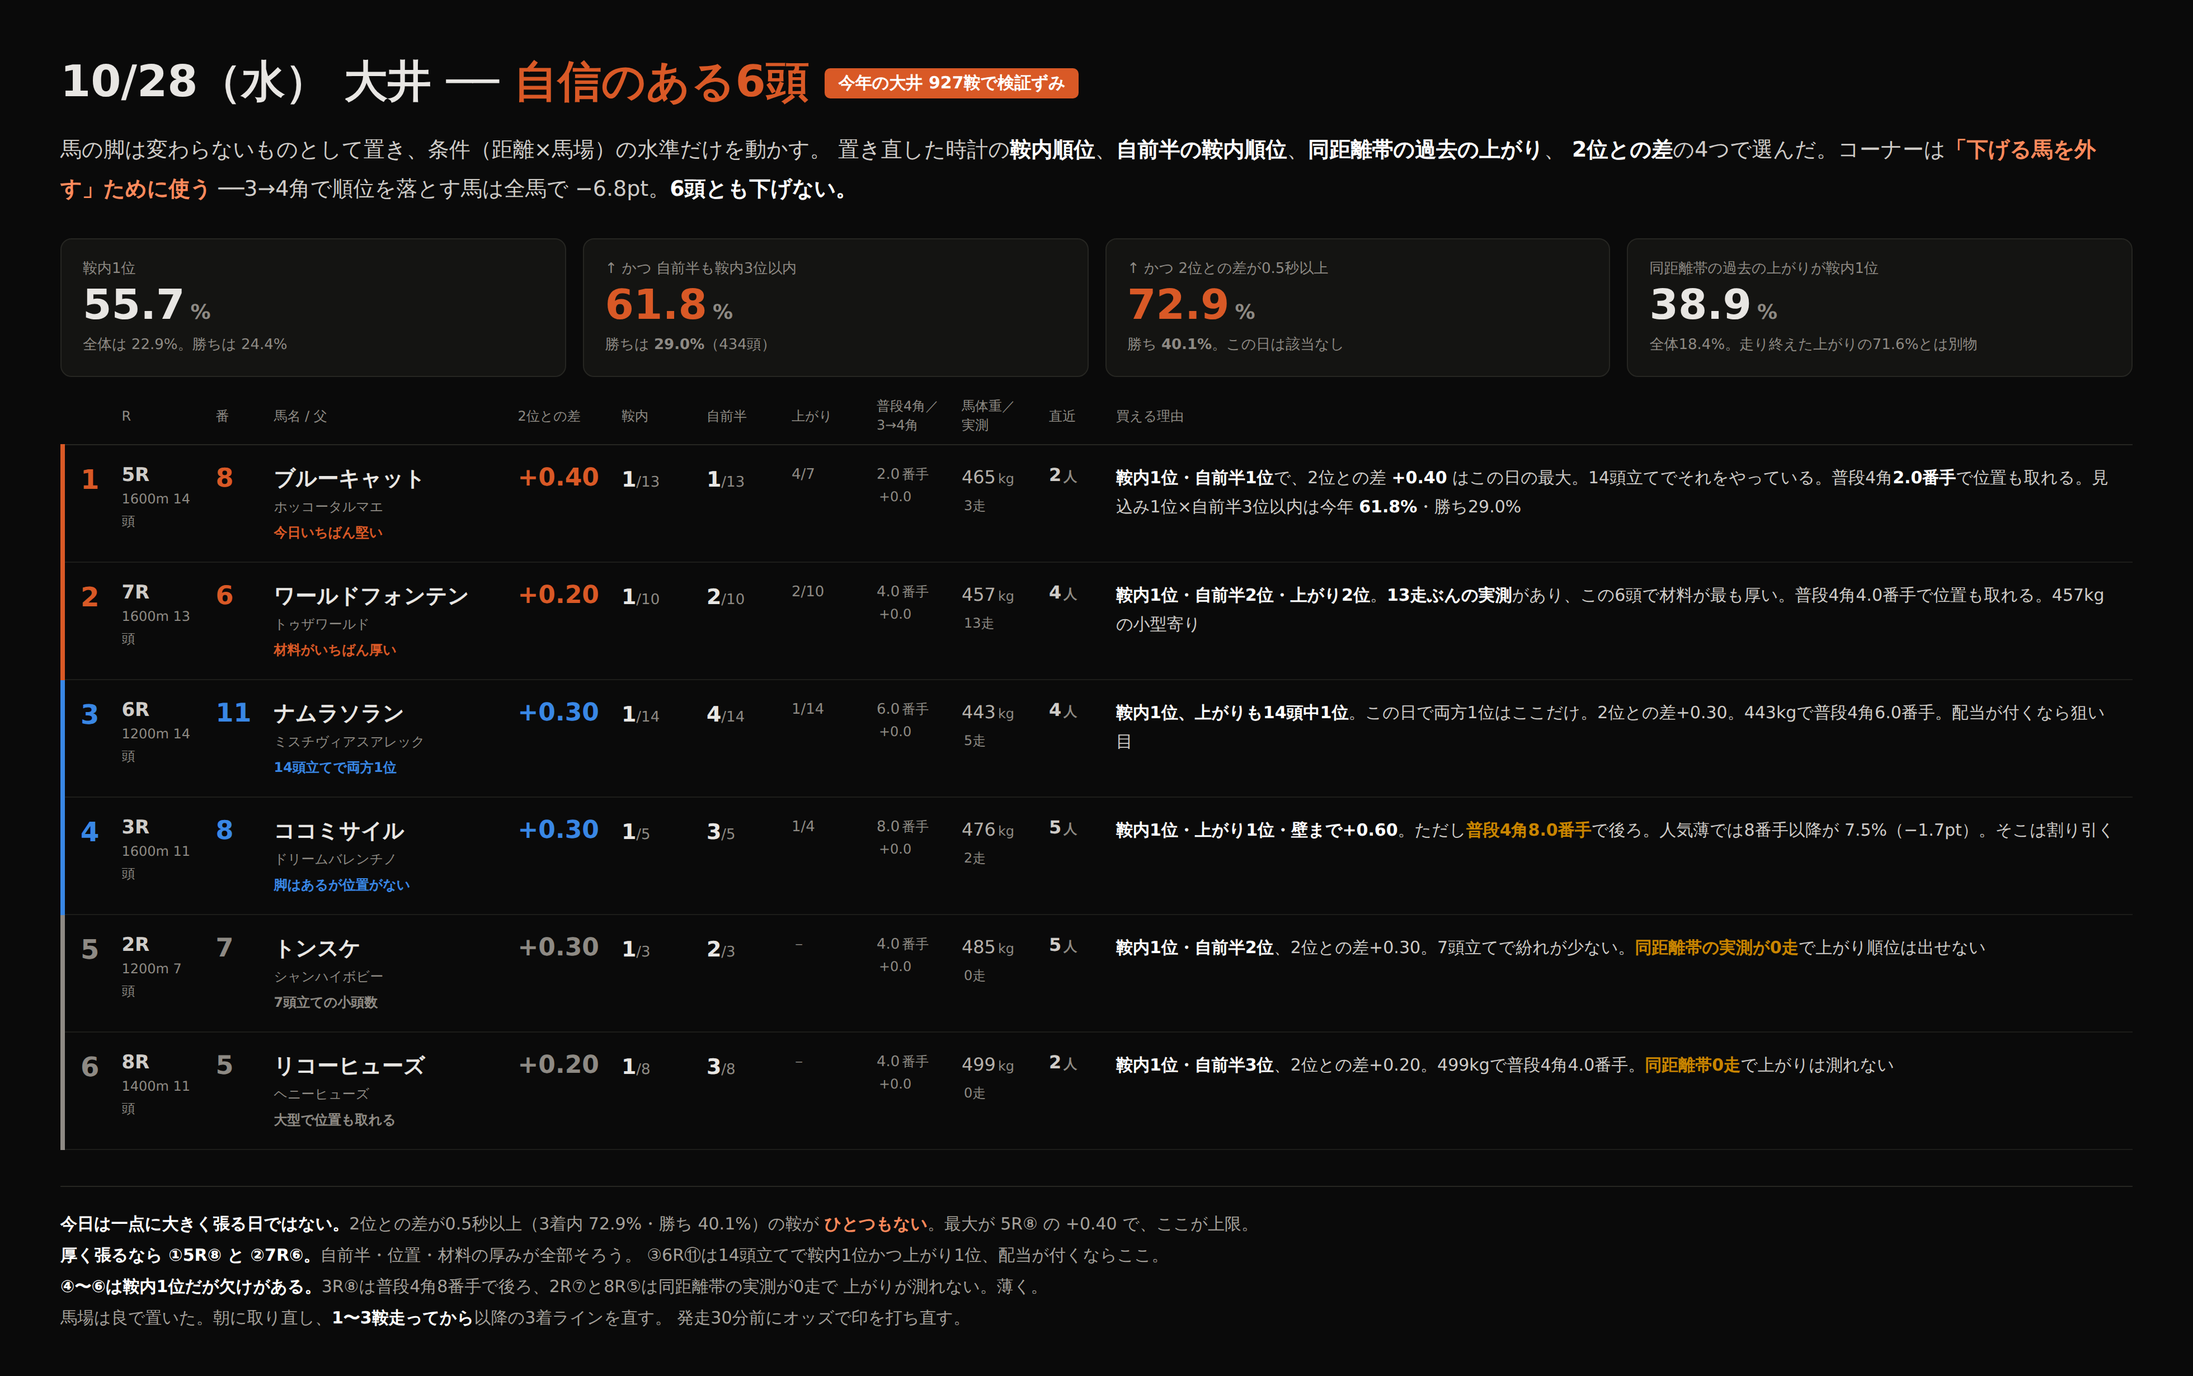
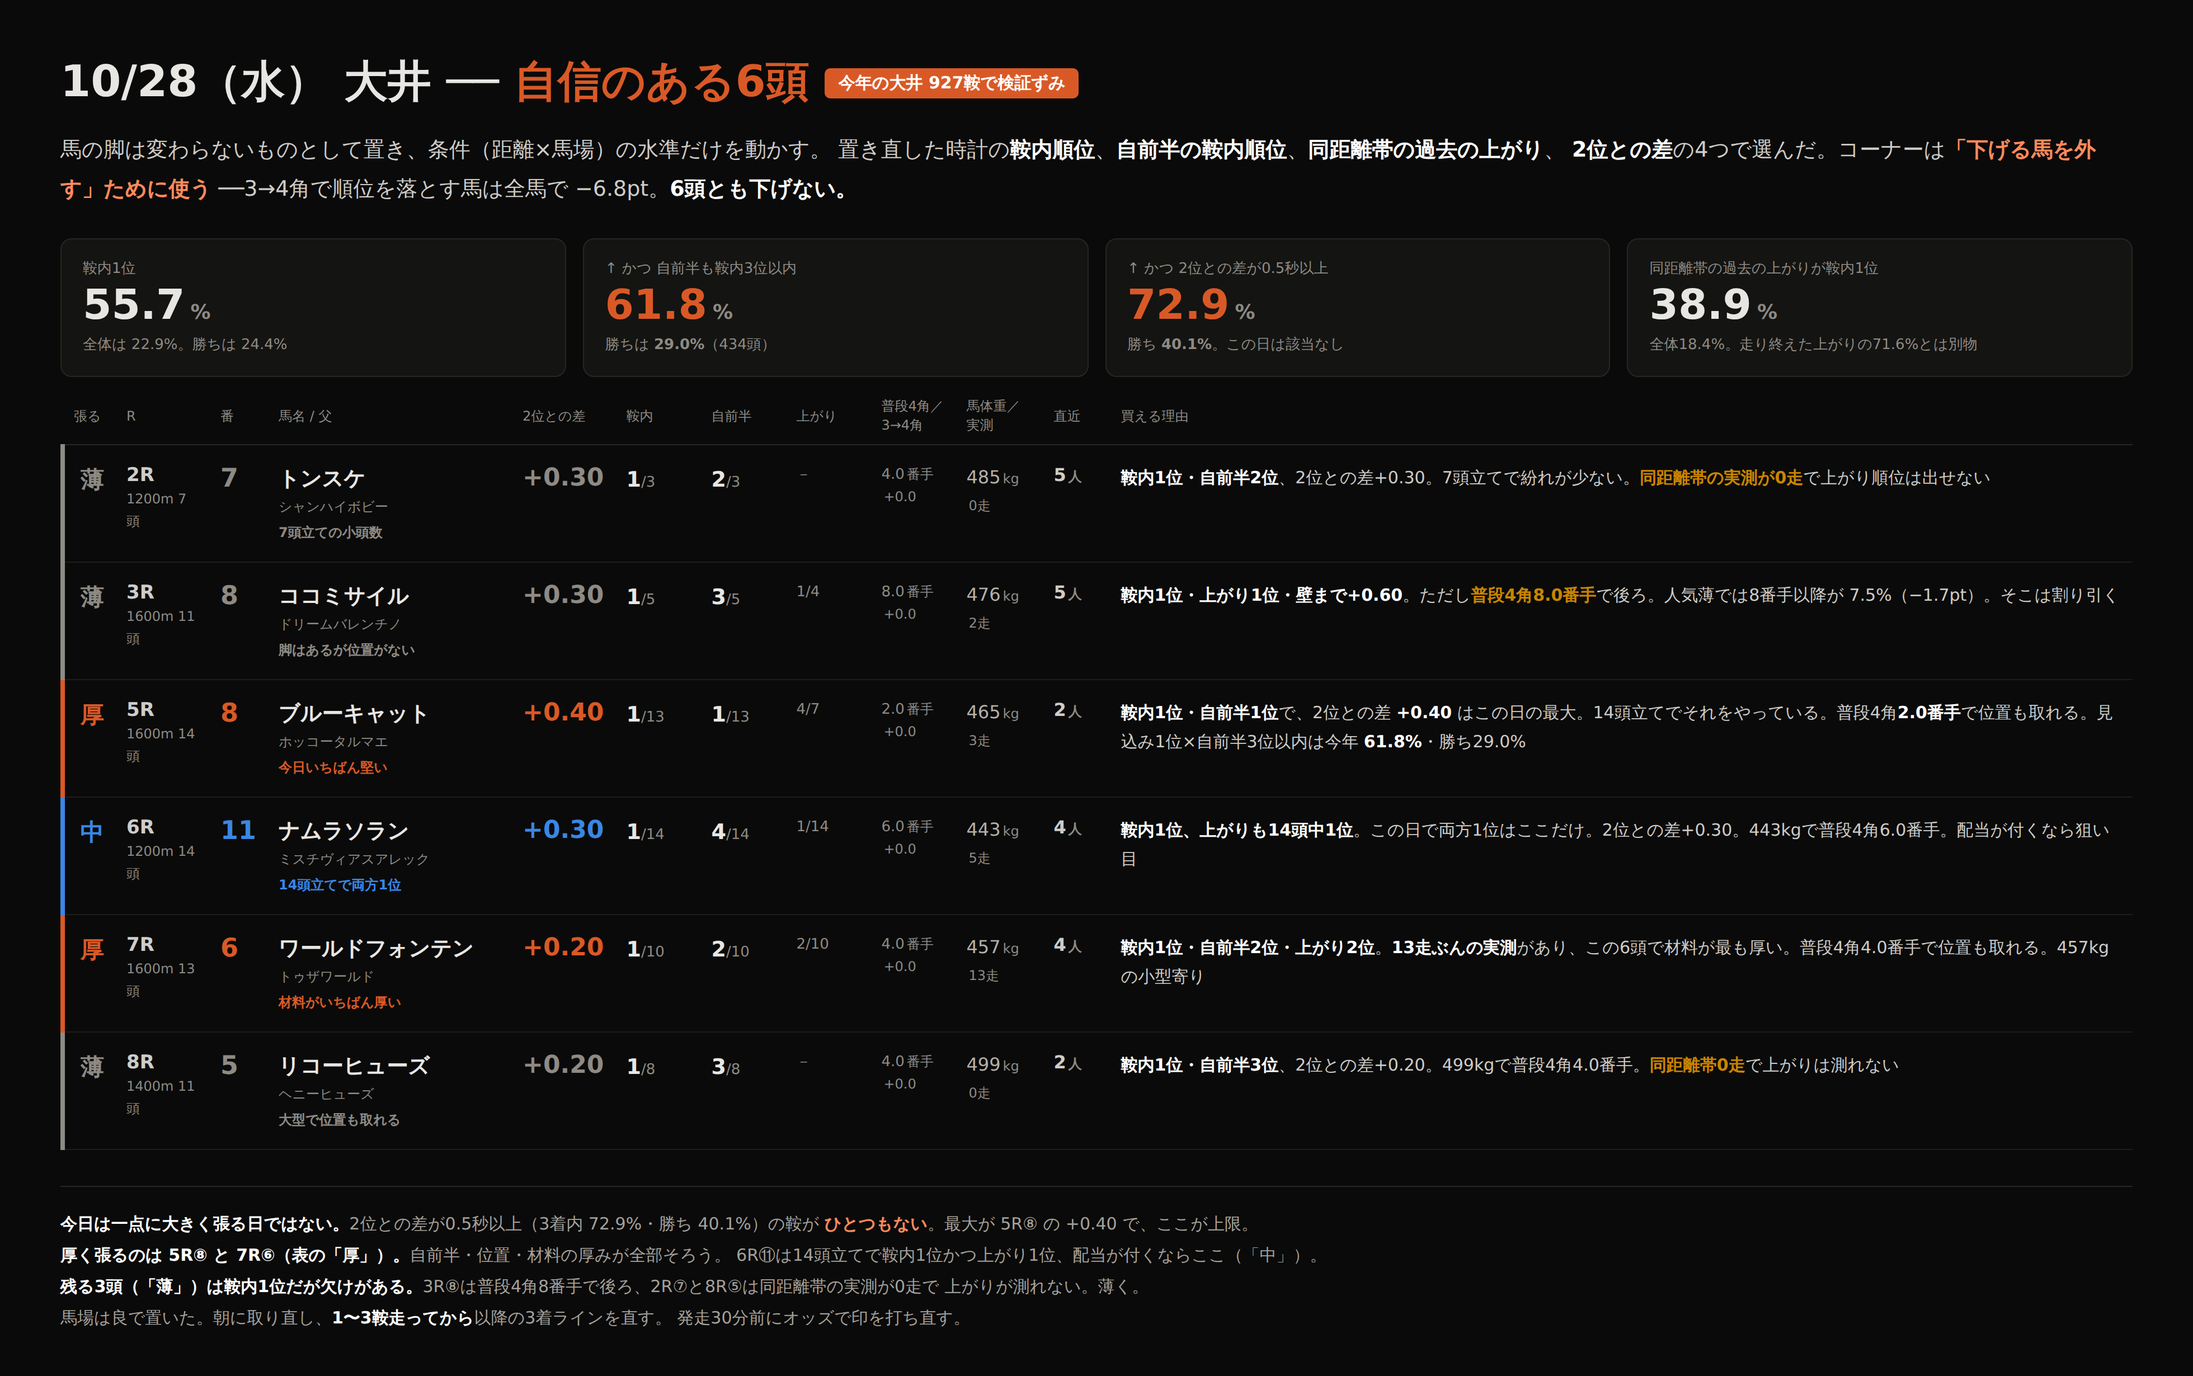
大井 10/28 自信の6頭：レース番号順に並べる
順位の番号をやめ、左端は「厚／中／薄」の張る厚さに変えた。
表はレース番号順。

Claude-Session: https://claude.ai/code/session_01RoHscZkr96FNaxQWvUqgEw

diff --git a/notes/live/2026-10-28/top6.html b/notes/live/2026-10-28/top6.html
@@ -18,7 +18,7 @@ table{width:100%;border-collapse:collapse;margin-top:18px}
 th{font-size:12px;color:#8e8a84;font-weight:500;text-align:left;padding:0 10px 8px;
  border-bottom:1px solid #262622}
 td{padding:17px 10px;border-bottom:1px solid #1d1d1a;font-size:16px;vertical-align:top}
-.no{width:40px;font-size:24px;font-weight:800;color:var(--c);
+.no{width:44px;font-size:21px;font-weight:800;color:var(--c);
  border-left:4px solid var(--c);padding-left:14px}
 .r{width:84px;color:#cfccc8;font-weight:700;font-size:17px}
 .dm{font-size:12px;color:#8e8a84;font-weight:500}
@@ -58,16 +58,16 @@ footer b{color:#fff} footer .hl{color:#ff8a5c;font-weight:700}
   <div class=v>38.9<small>%</small></div>
   <div class=n>全体18.4%。走り終えた上がりの71.6%とは別物</div></div>
 </div>
-<table><thead><tr><th></th><th>R</th><th>番</th><th>馬名 / 父</th>
+<table><thead><tr><th>張る</th><th>R</th><th>番</th><th>馬名 / 父</th>
 <th>2位との差</th><th>鞍内</th><th>自前半</th><th>上がり</th><th>普段4角／3→4角</th>
 <th>馬体重／実測</th><th>直近</th><th>買える理由</th></tr></thead>
-<tbody><tr style="--c:#d95926"><td class=no>1</td><td class=r>5R<br><span class=dm>1600m 14頭</span></td><td class=u>8</td><td class=nm>ブルーキャット<span class=si>ホッコータルマエ</span><span class=hd>今日いちばん堅い</span></td><td class=big>+0.40</td><td class=rk><b>1</b>/13</td><td class=rk><b>1</b>/13</td><td class=rk>4/7</td><td class=rk>2.0<span class=un>番手</span><br><span class=un>+0.0</span></td><td class=sm>465<span class=un>kg</span><br><span class=un>3走</span></td><td class=pp>2<span class=un>人</span></td><td class=why><b>鞍内1位・自前半1位</b>で、2位との差 <b>+0.40</b> はこの日の最大。14頭立てでそれをやっている。普段4角<b>2.0番手</b>で位置も取れる。見込み1位×自前半3位以内は今年 <b>61.8%</b>・勝ち29.0%</td></tr><tr style="--c:#d95926"><td class=no>2</td><td class=r>7R<br><span class=dm>1600m 13頭</span></td><td class=u>6</td><td class=nm>ワールドフォンテン<span class=si>トゥザワールド</span><span class=hd>材料がいちばん厚い</span></td><td class=big>+0.20</td><td class=rk><b>1</b>/10</td><td class=rk><b>2</b>/10</td><td class=rk>2/10</td><td class=rk>4.0<span class=un>番手</span><br><span class=un>+0.0</span></td><td class=sm>457<span class=un>kg</span><br><span class=un>13走</span></td><td class=pp>4<span class=un>人</span></td><td class=why><b>鞍内1位・自前半2位・上がり2位</b>。<b>13走ぶんの実測</b>があり、この6頭で材料が最も厚い。普段4角4.0番手で位置も取れる。457kgの小型寄り</td></tr><tr style="--c:#3987e5"><td class=no>3</td><td class=r>6R<br><span class=dm>1200m 14頭</span></td><td class=u>11</td><td class=nm>ナムラソラン<span class=si>ミスチヴィアスアレック</span><span class=hd>14頭立てで両方1位</span></td><td class=big>+0.30</td><td class=rk><b>1</b>/14</td><td class=rk><b>4</b>/14</td><td class=rk>1/14</td><td class=rk>6.0<span class=un>番手</span><br><span class=un>+0.0</span></td><td class=sm>443<span class=un>kg</span><br><span class=un>5走</span></td><td class=pp>4<span class=un>人</span></td><td class=why><b>鞍内1位、上がりも14頭中1位</b>。この日で両方1位はここだけ。2位との差+0.30。443kgで普段4角6.0番手。配当が付くなら狙い目</td></tr><tr style="--c:#3987e5"><td class=no>4</td><td class=r>3R<br><span class=dm>1600m 11頭</span></td><td class=u>8</td><td class=nm>ココミサイル<span class=si>ドリームバレンチノ</span><span class=hd>脚はあるが位置がない</span></td><td class=big>+0.30</td><td class=rk><b>1</b>/5</td><td class=rk><b>3</b>/5</td><td class=rk>1/4</td><td class=rk>8.0<span class=un>番手</span><br><span class=un>+0.0</span></td><td class=sm>476<span class=un>kg</span><br><span class=un>2走</span></td><td class=pp>5<span class=un>人</span></td><td class=why><b>鞍内1位・上がり1位・壁まで+0.60</b>。ただし<span class=w>普段4角8.0番手</span>で後ろ。人気薄では8番手以降が 7.5%（−1.7pt）。そこは割り引く</td></tr><tr style="--c:#8e8a84"><td class=no>5</td><td class=r>2R<br><span class=dm>1200m 7頭</span></td><td class=u>7</td><td class=nm>トンスケ<span class=si>シャンハイボビー</span><span class=hd>7頭立ての小頭数</span></td><td class=big>+0.30</td><td class=rk><b>1</b>/3</td><td class=rk><b>2</b>/3</td><td class=rk>－</td><td class=rk>4.0<span class=un>番手</span><br><span class=un>+0.0</span></td><td class=sm>485<span class=un>kg</span><br><span class=un>0走</span></td><td class=pp>5<span class=un>人</span></td><td class=why><b>鞍内1位・自前半2位</b>、2位との差+0.30。7頭立てで紛れが少ない。<span class=w>同距離帯の実測が0走</span>で上がり順位は出せない</td></tr><tr style="--c:#8e8a84"><td class=no>6</td><td class=r>8R<br><span class=dm>1400m 11頭</span></td><td class=u>5</td><td class=nm>リコーヒューズ<span class=si>ヘニーヒューズ</span><span class=hd>大型で位置も取れる</span></td><td class=big>+0.20</td><td class=rk><b>1</b>/8</td><td class=rk><b>3</b>/8</td><td class=rk>－</td><td class=rk>4.0<span class=un>番手</span><br><span class=un>+0.0</span></td><td class=sm>499<span class=un>kg</span><br><span class=un>0走</span></td><td class=pp>2<span class=un>人</span></td><td class=why><b>鞍内1位・自前半3位</b>、2位との差+0.20。499kgで普段4角4.0番手。<span class=w>同距離帯0走</span>で上がりは測れない</td></tr></tbody></table>
+<tbody><tr style="--c:#8e8a84"><td class=no>薄</td><td class=r>2R<br><span class=dm>1200m 7頭</span></td><td class=u>7</td><td class=nm>トンスケ<span class=si>シャンハイボビー</span><span class=hd>7頭立ての小頭数</span></td><td class=big>+0.30</td><td class=rk><b>1</b>/3</td><td class=rk><b>2</b>/3</td><td class=rk>－</td><td class=rk>4.0<span class=un>番手</span><br><span class=un>+0.0</span></td><td class=sm>485<span class=un>kg</span><br><span class=un>0走</span></td><td class=pp>5<span class=un>人</span></td><td class=why><b>鞍内1位・自前半2位</b>、2位との差+0.30。7頭立てで紛れが少ない。<span class=w>同距離帯の実測が0走</span>で上がり順位は出せない</td></tr><tr style="--c:#8e8a84"><td class=no>薄</td><td class=r>3R<br><span class=dm>1600m 11頭</span></td><td class=u>8</td><td class=nm>ココミサイル<span class=si>ドリームバレンチノ</span><span class=hd>脚はあるが位置がない</span></td><td class=big>+0.30</td><td class=rk><b>1</b>/5</td><td class=rk><b>3</b>/5</td><td class=rk>1/4</td><td class=rk>8.0<span class=un>番手</span><br><span class=un>+0.0</span></td><td class=sm>476<span class=un>kg</span><br><span class=un>2走</span></td><td class=pp>5<span class=un>人</span></td><td class=why><b>鞍内1位・上がり1位・壁まで+0.60</b>。ただし<span class=w>普段4角8.0番手</span>で後ろ。人気薄では8番手以降が 7.5%（−1.7pt）。そこは割り引く</td></tr><tr style="--c:#d95926"><td class=no>厚</td><td class=r>5R<br><span class=dm>1600m 14頭</span></td><td class=u>8</td><td class=nm>ブルーキャット<span class=si>ホッコータルマエ</span><span class=hd>今日いちばん堅い</span></td><td class=big>+0.40</td><td class=rk><b>1</b>/13</td><td class=rk><b>1</b>/13</td><td class=rk>4/7</td><td class=rk>2.0<span class=un>番手</span><br><span class=un>+0.0</span></td><td class=sm>465<span class=un>kg</span><br><span class=un>3走</span></td><td class=pp>2<span class=un>人</span></td><td class=why><b>鞍内1位・自前半1位</b>で、2位との差 <b>+0.40</b> はこの日の最大。14頭立てでそれをやっている。普段4角<b>2.0番手</b>で位置も取れる。見込み1位×自前半3位以内は今年 <b>61.8%</b>・勝ち29.0%</td></tr><tr style="--c:#3987e5"><td class=no>中</td><td class=r>6R<br><span class=dm>1200m 14頭</span></td><td class=u>11</td><td class=nm>ナムラソラン<span class=si>ミスチヴィアスアレック</span><span class=hd>14頭立てで両方1位</span></td><td class=big>+0.30</td><td class=rk><b>1</b>/14</td><td class=rk><b>4</b>/14</td><td class=rk>1/14</td><td class=rk>6.0<span class=un>番手</span><br><span class=un>+0.0</span></td><td class=sm>443<span class=un>kg</span><br><span class=un>5走</span></td><td class=pp>4<span class=un>人</span></td><td class=why><b>鞍内1位、上がりも14頭中1位</b>。この日で両方1位はここだけ。2位との差+0.30。443kgで普段4角6.0番手。配当が付くなら狙い目</td></tr><tr style="--c:#d95926"><td class=no>厚</td><td class=r>7R<br><span class=dm>1600m 13頭</span></td><td class=u>6</td><td class=nm>ワールドフォンテン<span class=si>トゥザワールド</span><span class=hd>材料がいちばん厚い</span></td><td class=big>+0.20</td><td class=rk><b>1</b>/10</td><td class=rk><b>2</b>/10</td><td class=rk>2/10</td><td class=rk>4.0<span class=un>番手</span><br><span class=un>+0.0</span></td><td class=sm>457<span class=un>kg</span><br><span class=un>13走</span></td><td class=pp>4<span class=un>人</span></td><td class=why><b>鞍内1位・自前半2位・上がり2位</b>。<b>13走ぶんの実測</b>があり、この6頭で材料が最も厚い。普段4角4.0番手で位置も取れる。457kgの小型寄り</td></tr><tr style="--c:#8e8a84"><td class=no>薄</td><td class=r>8R<br><span class=dm>1400m 11頭</span></td><td class=u>5</td><td class=nm>リコーヒューズ<span class=si>ヘニーヒューズ</span><span class=hd>大型で位置も取れる</span></td><td class=big>+0.20</td><td class=rk><b>1</b>/8</td><td class=rk><b>3</b>/8</td><td class=rk>－</td><td class=rk>4.0<span class=un>番手</span><br><span class=un>+0.0</span></td><td class=sm>499<span class=un>kg</span><br><span class=un>0走</span></td><td class=pp>2<span class=un>人</span></td><td class=why><b>鞍内1位・自前半3位</b>、2位との差+0.20。499kgで普段4角4.0番手。<span class=w>同距離帯0走</span>で上がりは測れない</td></tr></tbody></table>
 <footer>
 <b>今日は一点に大きく張る日ではない。</b>2位との差が0.5秒以上（3着内 72.9%・勝ち 40.1%）の鞍が
 <span class=hl>ひとつもない</span>。最大が 5R⑧ の +0.40 で、ここが上限。<br>
-<b>厚く張るなら ①5R⑧ と ②7R⑥。</b>自前半・位置・材料の厚みが全部そろう。
-③6R⑪は14頭立てで鞍内1位かつ上がり1位、配当が付くならここ。<br>
-<b>④〜⑥は鞍内1位だが欠けがある。</b>3R⑧は普段4角8番手で後ろ、2R⑦と8R⑤は同距離帯の実測が0走で
+<b>厚く張るのは 5R⑧ と 7R⑥（表の「厚」）。</b>自前半・位置・材料の厚みが全部そろう。
+6R⑪は14頭立てで鞍内1位かつ上がり1位、配当が付くならここ（「中」）。<br>
+<b>残る3頭（「薄」）は鞍内1位だが欠けがある。</b>3R⑧は普段4角8番手で後ろ、2R⑦と8R⑤は同距離帯の実測が0走で
 上がりが測れない。薄く。<br>
 馬場は良で置いた。朝に取り直し、<b>1〜3鞍走ってから</b>以降の3着ラインを直す。
 発走30分前にオッズで印を打ち直す。

diff --git a/scripts/ana/ooi_top_card.py b/scripts/ana/ooi_top_card.py
@@ -34,18 +34,22 @@ WHY = {
    '<b>鞍内1位・自前半3位</b>、2位との差+0.20。499kgで普段4角4.0番手。'
    '<span class=w>同距離帯0走</span>で上がりは測れない'),
 }
-COL = ['#d95926', '#d95926', '#3987e5', '#3987e5', '#8e8a84', '#8e8a84']
+# 張る厚さ（馬名で決める）。表はレース番号順に出す。
+WEIGHT = {'ブルーキャット': ('厚', '#d95926'), 'ワールドフォンテン': ('厚', '#d95926'),
+          'ナムラソラン': ('中', '#3987e5'), 'ココミサイル': ('薄', '#8e8a84'),
+          'トンスケ': ('薄', '#8e8a84'), 'リコーヒューズ': ('薄', '#8e8a84')}
+T.sort(key=lambda z: z['R'])
 
 rows = []
 for i, p in enumerate(T):
-    c = COL[i]
+    mk, c = WEIGHT.get(p['nm'], ('', '#8e8a84'))
     head, why = WHY.get(p['nm'], ('', ''))
     ar = f"{p['ark']}/{p['nar']}" if p.get('ark') else '－'
     lead = f"{p['lead']:+.2f}" if p.get('lead') is not None else '－'
     g = f"{p['gain']:+.1f}" if p.get('gain') is not None else '－'
     pos = f"{p['pos']:.1f}" if p.get('pos') is not None else '－'
     rows.append(
-      f'<tr style="--c:{c}"><td class=no>{i+1}</td>'
+      f'<tr style="--c:{c}"><td class=no>{mk}</td>'
       f'<td class=r>{p["R"]}R<br><span class=dm>{p["dist"]}m {p["n"]}頭</span></td>'
       f'<td class=u>{p["uu"]}</td>'
       f'<td class=nm>{html.escape(p["nm"])}<span class=si>{html.escape(p["sire"])}</span>'
@@ -80,7 +84,7 @@ table{{width:100%;border-collapse:collapse;margin-top:18px}}
 th{{font-size:12px;color:#8e8a84;font-weight:500;text-align:left;padding:0 10px 8px;
  border-bottom:1px solid #262622}}
 td{{padding:17px 10px;border-bottom:1px solid #1d1d1a;font-size:16px;vertical-align:top}}
-.no{{width:40px;font-size:24px;font-weight:800;color:var(--c);
+.no{{width:44px;font-size:21px;font-weight:800;color:var(--c);
  border-left:4px solid var(--c);padding-left:14px}}
 .r{{width:84px;color:#cfccc8;font-weight:700;font-size:17px}}
 .dm{{font-size:12px;color:#8e8a84;font-weight:500}}
@@ -120,16 +124,16 @@ footer b{{color:#fff}} footer .hl{{color:#ff8a5c;font-weight:700}}
   <div class=v>38.9<small>%</small></div>
   <div class=n>全体18.4%。走り終えた上がりの71.6%とは別物</div></div>
 </div>
-<table><thead><tr><th></th><th>R</th><th>番</th><th>馬名 / 父</th>
+<table><thead><tr><th>張る</th><th>R</th><th>番</th><th>馬名 / 父</th>
 <th>2位との差</th><th>鞍内</th><th>自前半</th><th>上がり</th><th>普段4角／3→4角</th>
 <th>馬体重／実測</th><th>直近</th><th>買える理由</th></tr></thead>
 <tbody>{''.join(rows)}</tbody></table>
 <footer>
 <b>今日は一点に大きく張る日ではない。</b>2位との差が0.5秒以上（3着内 72.9%・勝ち 40.1%）の鞍が
 <span class=hl>ひとつもない</span>。最大が 5R⑧ の +0.40 で、ここが上限。<br>
-<b>厚く張るなら ①5R⑧ と ②7R⑥。</b>自前半・位置・材料の厚みが全部そろう。
-③6R⑪は14頭立てで鞍内1位かつ上がり1位、配当が付くならここ。<br>
-<b>④〜⑥は鞍内1位だが欠けがある。</b>3R⑧は普段4角8番手で後ろ、2R⑦と8R⑤は同距離帯の実測が0走で
+<b>厚く張るのは 5R⑧ と 7R⑥（表の「厚」）。</b>自前半・位置・材料の厚みが全部そろう。
+6R⑪は14頭立てで鞍内1位かつ上がり1位、配当が付くならここ（「中」）。<br>
+<b>残る3頭（「薄」）は鞍内1位だが欠けがある。</b>3R⑧は普段4角8番手で後ろ、2R⑦と8R⑤は同距離帯の実測が0走で
 上がりが測れない。薄く。<br>
 馬場は良で置いた。朝に取り直し、<b>1〜3鞍走ってから</b>以降の3着ラインを直す。
 発走30分前にオッズで印を打ち直す。
